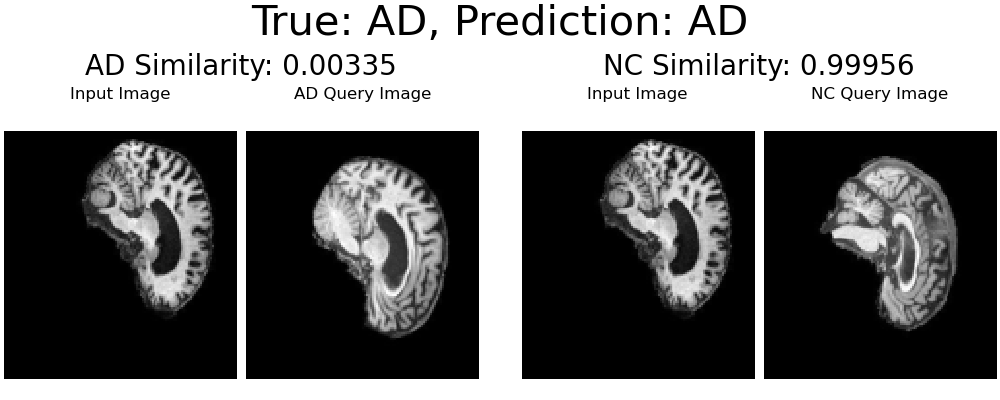
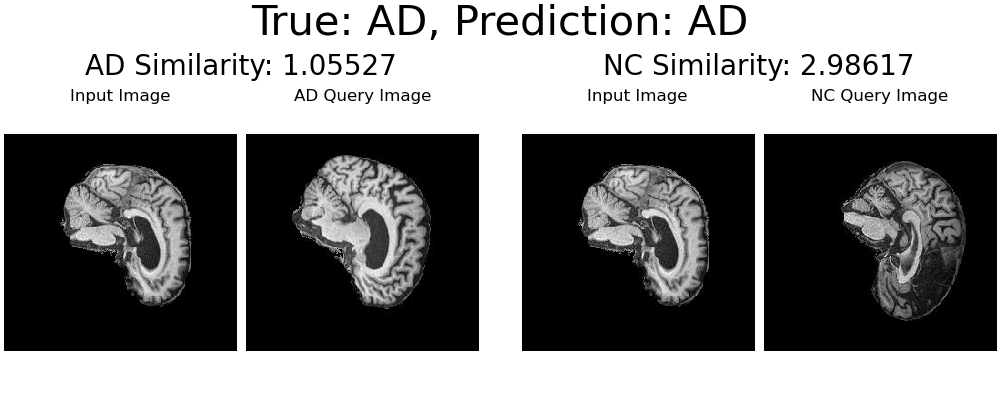
UPDATE readme udpated to represent the new model

diff --git a/recognition/Siamese-ADNI-46420763/README.md b/recognition/Siamese-ADNI-46420763/README.md
@@ -1,36 +1,50 @@
 # Classifying Alzheimer's Disease in The ADNI Dataset Using The Siamese Network
+## Problem
+The Alzheimer’s Disease Neuroimaging Initiative (ADNI) dataset for Alzheimer's disease is a collection of MRI images with two classes: Alzheimer’s disease (AD) and Cognitive Normal (CN). This report will detail my attempt in classifying the dataset using a Siamese Network.
+
 ## Siamese Network
-The Siamese Network aims to classify images based on its similarity to a range "query" images which represents multiple classes. The network takes two images as inputs and returns a number between 0 and 1, indicating how similar these images are. The input image is then classified to be the class of the query image of which it is most similar to.
+The Siamese Network aims to classify images based on its similarity to a range "query" images which each represent different classes. 
 
-It does this by passing these images through the __same__ convolutional neural network (CNN), all with the __same__ weights, to extract the features of the images into single feature vectors. We then take the component-wise, absolute difference between these vectors and join it to a fully connected layer with one output - a value between 0 and 1 indicating similarity. This is depicted in the following image: ([G. Koch, R. Zemel, R. Salakhutdinov et al.], Figure 4)
+It does this by passing these test images and query images through the __same__ convolutional neural network (CNN), all with the __same__ weights, to extract the features of the images into single feature vectors. 
+<img src="./images/Embedder.PNG" width="500">
+We then take the distance (some metric, i.e. euclidean distance) between an image embedding and all query embeddings. The image is classified as the class of the query image with the shortest distance.
+<img src="./images/oneshotprediction.PNG" width="500">
+The network is trained on triplets of images - (Anchor, Positive, Negative) where positive has the same class as the anchor and negative has a different class to the anchor.
+The ultimate goal is to adjust the CNN weights so that it provides a feature vector that minimizes the distance between the anchor and positive embeddings and maximizes the distance between the anchor and negative embeddings.
+<img src="./images/feature_space.PNG" width="300">
 
-![CNN structure](./images/CNN-structure.PNG)
 
-The component-wise absolute distance is used because we wish to find feature vectors of images which have a small euclidean distance between them if they are similar, and a larger distance when they are not. The benefit of this architecture is that it allows for one-shot prediction - that is, you can classify an image as a class without having any images of that class in the training set.
+## Siamese Implementation
+The CNN embedder I implemented is similar to the CNN implemented in figure 4 in "Siamese neural networks for one-shot image recognition"[1], with the main differences being the input image dimensions, use of batch norm, and that the length of the feature vector is 256.
+![CNN structure](./images/SiameseNetworkEmbedderStructure.png)
+Training was done using functions from the PyTorch metric learning library [2]. The loss was calculated using triplet margin loss using cosine similarity distance - averaging only losses in the batch that are less than 0.3 (threshold reducer). 
+
+The triplets are formed within the batch by the loss function. To get better training, a mutli-similarity miner was used to find "hard pairs" in the batch - negative pairs that are close together and positive pairs that are far apart. The results were passed to the loss function.
+
+Example Triplets:
+<img src="./images/NCNCAD.PNG" width="350">
+<img src="./images/ADADNC.PNG" width="350">
+
+In training, I used SGD as the optimizer with 1e-5 weight decay and a one-cycle learning rate scheduler with a max learning rate of 0.1.
 
 ## Classifying the ADNI Dataset
 ### Preprocessing The Data
-The preprocessed ADNI dataset contained train and test datasets already but in my implementation, I found I got better results when combining the datasets and randomly splitting them by 60% for the test set, 20% for the validation set and 20% for the training set. I also found that applying resizing the image from (256, 240) to (128, 120) improved results. A grayscale transformation was also made on the images so that the pixel values are a value between 0.0 and 1.0 and that the image has only 1 channel.
+The training dataset was split by [0.7, 0.3] to create the validation dataset.
+A grayscale transformation was also made on the images so that the pixel values are a value between 0.0 and 1.0 and that the image has only 1 channel.
 
-In order to work with the Siamese Network, the class `SiameseADNIDataset` was made to make pairs in the data be made where 0 denotes both images are of the same class and 1 denotes otherwise. 
+To help generalize the training set, I also applied a random rotation transformation and a random crop with the same size of the image to get random positions of the scans.
 
-<img src="./images/ADAD.png" width="250"> 
-<img src="./images/ADNC.png" width="250"> 
-<img src="./images/NCAD.png" width="250"> 
-<img src="./images/NCNC.png" width="250">
-
-### Siamese Network Model Implementation
-The structure I implemented follows pretty closely to structure shown in the previous image with the main differences being the input image dimensions, the convolutional layer uses batch norm, and that the length of the feature vector is 256.
-![CNN structure](./images/Implemented-SNN.png)
-
-I used binary cross-entropy as the loss function and Adam as the optimizer with 0.00005 learning rate and 0.001 weight decay.
+Example Inputs:
+![Input Examples](./images/input_examples.png)
 
 ## Results
 ### Training
-The following plot shows the loss and accuracy for both the training and validation set across 30 epochs.
-![Accuracy and Loss](./images/Loss-Acc.png)
+The following plot shows the (epoch average) loss for the training and validation set across 35 epochs.
+![Loss](./images/Loss.png)
+The following plot shows the validation accuracy across 35 epochs.
+![Loss](./images/Acc.png)
 
-We can see that the model reaches good training and validation accuracy at around 6 epochs and continue to perform well, staying above 0.8 accuracy except for two times. At 30 epochs, the model has decent training and validation performance and when evaluating the test set we also get great performance as seen below:
+We can see that the model reaches good validation accuracy at around 17 epochs and then fluctuates, reaching over 0.8 accuracy a couple of times. At 35 epochs, the model has decent validation performance. When evaluating the test set, we get slightly worse performance but not quite 80% as seen below:
 
 <img src="./images/test_acc.PNG" width="350">
 
@@ -40,20 +54,22 @@ Predicting the class of image requires a 'query' image from each class which wil
 
 <img src="./images/prediction-1.png" width="500">
 <img src="./images/prediction-2.png" width="500">
+<img src="./images/prediction-3.png" width="500">
 
 ## Reproducibility
-train.py includes the best model and training parameters found. The train/validation/testing split is kept the same since it uses a set seed, however, the seed is not set for assigning a random pair, so training pairs are different for each run. This means the exact results as described in the report will not be achieved for every run. But since the class population for AD and NC are around the same size, similar results will be achieved - as I have observed on repeated runs. 
+train.py includes the best training parameters found (detailed above). The train/validation split will be different for each run. This means the exact results as described in the report will not be achieved for every run. But, as I have observed on repeated runs, similar results will be achieved. It's also worth noting that the query images are drawn at random and may affect the accuracy as it depends on the quality of these query images.
 
-## Dependencies
+### Dependencies
 Python Version 3.11.5
 * PyTorch 2.0.1
 * Torchvision 0.15.2
 * NumPy 1.24.3
 * Matplotlib 3.7.1
-* random
-* time
+* pytorch_metric_learning 2.3.0
   
 
 ## References
 
 [1] G. Koch, R. Zemel, R. Salakhutdinov et al., “Siamese neural networks for one-shot image recognition,” in ICML deep learning workshop, vol. 2. Lille, 2015, p. 0. (https://www.cs.cmu.edu/~rsalakhu/papers/oneshot1.pdf)
+[2] PyTorch Metric Learning, (https://kevinmusgrave.github.io/pytorch-metric-learning/)
+[3] Wang, Shusen "Few-Shot Learning (2/3): Siamese Networks", Images (https://www.youtube.com/watch?v=4S-XDefSjTM)
